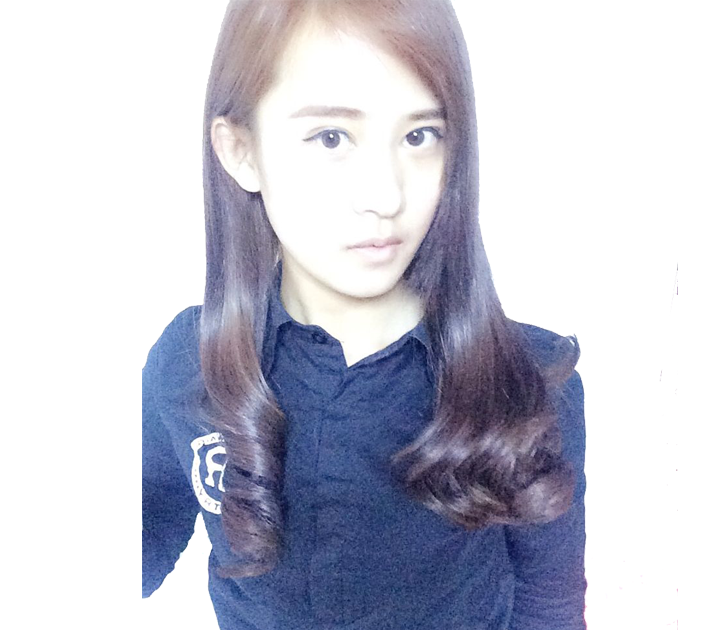
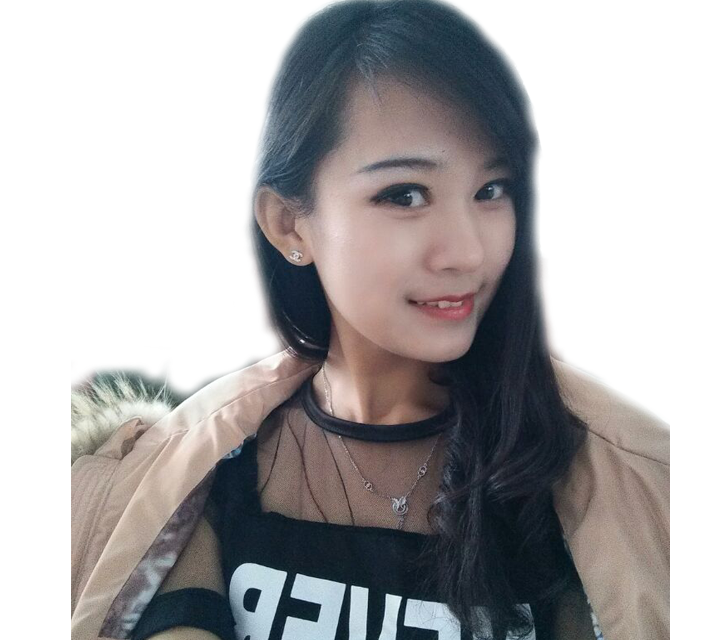
new version

diff --git a/assets/js/members-pic.js b/assets/js/members-pic.js
@@ -13,7 +13,7 @@ var oMembersInfo = [
 		"duties" : "2014基地总负责人",
 		"introduction" : "介绍",
 		"joinJdTime" : "2014-3-5",
-		"luckColor" : "pink",
+		"luckColor" : "#51b9c5",
 		"Pic" : (function() {
 			var img = new Image();
 			img.src = "/assets/img/members-pic/members-pics/AllenYang/AllenYang.png";
@@ -42,30 +42,34 @@ var oMembersInfo = [
 			return img;
 		}())
 	},{
-		"name" : "Owen",
-		"duties" : "前端组成员",
+		"name" : "YanLong",
+		"duties" : "Web组成员",
 		"introduction" : "喜欢研究新技术",
+		"joinJdTime" : "2014-3-5",
+		"luckColor" : "#5dccdd",
 		"Pic" : (function() {
 			var img = new Image();
-			img.src = "/assets/img/members-pic/members-pics/Owen/Owen.png";
+			img.src = "/assets/img/members-pic/members-pics/YanLong/YanLong.png";
 			return img;
 		}())
 	},{
-		"name" : "Owen",
+		"name" : "Niklaus",
 		"duties" : "前端组成员",
 		"introduction" : "喜欢研究新技术",
+		"joinJdTime" : "2014-3-5",
+		"luckColor" : "#8e95af",
 		"Pic" : (function() {
 			var img = new Image();
-			img.src = "/assets/img/members-pic/members-pics/Owen/Owen.png";
+			img.src = "/assets/img/members-pic/members-pics/Niklaus/Niklaus.png";
 			return img;
 		}())
 	},{
-		"name" : "Owen",
-		"duties" : "前端组成员",
+		"name" : "lianghongchao",
+		"duties" : "安卓组成员",
 		"introduction" : "喜欢研究新技术",
 		"Pic" : (function() {
 			var img = new Image();
-			img.src = "/assets/img/members-pic/members-pics/Owen/Owen.png";
+			img.src = "/assets/img/members-pic/members-pics/lianghongchao/lianghongchao.png";
 			return img;
 		}())
 	},{
@@ -251,15 +255,14 @@ $(function () {
 			var CanvasHeight = listStage.height();
 			
 			var num = 3;
-			var f = 90;
-			var r = -90;
+			var f = 120;
+			var r = -60;
 
 			oStage.canvas.width = CanvasWidth;
 			oStage.canvas.height = CanvasHeight;
 			oStage.alpha = 0.7;
 
 			var Shape = new c.Shape();
-
 			function render() {
 				var randomY = (random()*0.8 + 0.19).toFixed(1);
 				var Point = [
@@ -272,13 +275,10 @@ $(function () {
 				oStage.addChild(Shape);
 				oStage.update();
 			}
-
 			function judge(parameter) {
-				var t = parameter + (random()*2 - 1.1) * f;
+				var t = parameter + (random()*2 - 0.8) * f;
 				return (t > CanvasHeight || t<0 ) ? judge(parameter) : t;
 			}
-
-
 			function draw( Point ) {
 				var randomColor = "#" + (Cos(r) * 127 + 128 << 16 | Cos(r + dPI/3) * 127 + 128 <<8 | Cos(r + dPI/3 * 2) * 127 + 128).toString(16);
 				Shape.graphics.setStrokeStyle(1).beginFill(randomColor).mt(Point[0].x , Point[0].y)

diff --git a/assets/css/members-pic.css b/assets/css/members-pic.css
@@ -27,14 +27,17 @@
 	-o-transition: 0.8s ease;
 	transition: 0.8s ease;
 	overflow: hidden;
-}
 
+	will-change: background;
+}
 
 
 /* 图片列表 */
 #list-stage {
 	position: relative;
-	width: 100%;	
+	width: 100%;
+
+	will-change: background;	
 }
 
 #show-our-youth {
@@ -170,6 +173,7 @@
 	
 	width: 100%;
 	height: 100%;
+	will-change: background , transition;
 }
 
 #show-pic>li b {
@@ -177,6 +181,7 @@
 	width: 100%;
 	height: 0.3rem;
 	opacity: 0;
+	will-change: background , transition;
 }
 
 #con {
@@ -432,7 +437,7 @@
 	font: 200 0.3rem/0.74rem "Montserrat";
 }
 
-.join-btn {
+.let-join .join-btn {
 	display: block;
 	width: 2.5rem;
 	height: 0.8rem;
@@ -442,10 +447,11 @@
 	
 	border-radius: 0.05rem;
 	margin: 0 auto;
+	text-align: center;
 	transition: 0.75s ease;
 	-webkit-transition: 0.75s ease;
 }
 
-.join-btn:hover a{
+.join-btn:hover {
 	color: #fff;
 }

diff --git a/pages/members-pic.html b/pages/members-pic.html
@@ -258,11 +258,9 @@ title: 成员介绍
 		<section class="block-line">
 			<div class="line tall-line"></div>
 		</section>
-		<button class="join-btn">
-			<a href="http://xgcyjd2014.github.io/pages/enroll-page.html" target="_blank">
-				Let's Join
-			</a>
-		</button>
+		<a class="join-btn" href="http://xgcyjd2014.github.io/pages/enroll-page.html" target="_blank">
+			Let's Join
+		</a>
 	</div>
 </section>
 <section class="block-line">
